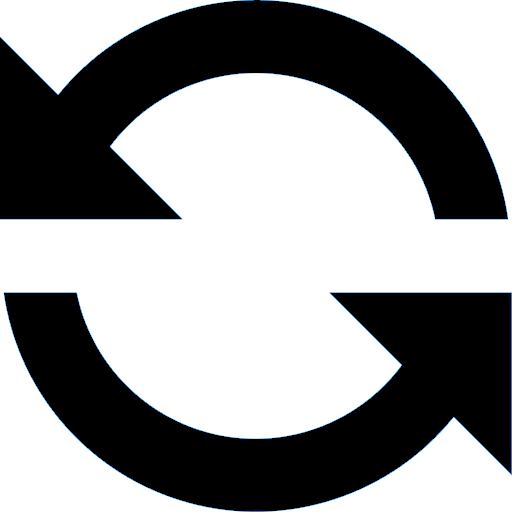
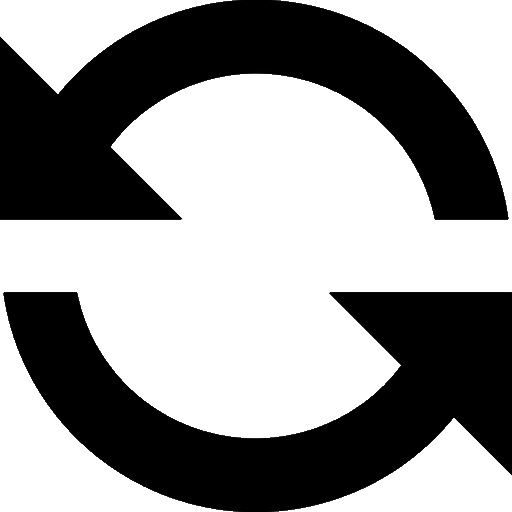
#521 Fix bugs
- Remove background from refresh button
- Updated docstring in DefenseRegistrationRepository
- Removed unused check in LabService
- Updated tests
- Moved '{' to new line
- renamed defendingTeachersHeaders and defendingTeachers

diff --git a/plugin/resources/assets/js/pages/assignment/components/RegistrationQueue.vue b/plugin/resources/assets/js/pages/assignment/components/RegistrationQueue.vue
@@ -18,8 +18,8 @@
                 {{ translate('labTeachersText') }}
               </v-card-title>
               <v-data-table
-                :headers="defendingTeachersHeaders"
-                :items="defendingTeachers"
+                :headers="labTeachersHeaders"
+                :items="labTeachers"
                 :hide-default-footer="true"
                 @update:items="dataUpdate"
               >
@@ -60,7 +60,7 @@ export default {
 
   data() {
     return {
-      defendingTeachersHeaders: [
+      labTeachersHeaders: [
         {text: this.translate("teacherText"), value: 'teacher_name'},
         {text: this.translate("charonText"), value: 'charon'},
         {text: this.translate("availabilityText"), value: 'availability'},
@@ -71,7 +71,7 @@ export default {
         {text: this.translate("estimatedStartTimeText"), value: 'approx_start_time', sortable: false},
         {text: this.translate("studentText"), value: 'student_name', sortable: false},
       ],
-      defendingTeachers: [],
+      labTeachers: [],
       studentsQueue: [],
       timer: '',
       labStarted: Date.parse(this.lab_start) <= Date.now(),
@@ -92,14 +92,14 @@ export default {
   created () {
     this.timer = setInterval(this.dataUpdate, 15000);
     this.studentsQueue = this.items.registrations;
-    this.defendingTeachers = this.items.teachers;
+    this.labTeachers = this.items.teachers;
   },
 
   methods: {
     dataUpdate(){
       Lab.getLabQueueStatus(this.$store.state.charon.id, this.defenseLabId, this.$store.state.student_id,  (items)=>{
         this.studentsQueue = items.registrations;
-        this.defendingTeachers = items.teachers;
+        this.labTeachers = items.teachers;
         this.labStarted = Date.parse(this.lab_start) <= Date.now();
         this.labEnded = Date.parse(this.lab_end) <= Date.now();
         if (this.labEnded) {

diff --git a/plugin/app/Repositories/DefenseRegistrationRepository.php b/plugin/app/Repositories/DefenseRegistrationRepository.php
@@ -307,7 +307,8 @@ class DefenseRegistrationRepository
     }
 
     /**
-     * Returns all lab registrations. If $waitingStatus is true, then only labs with progress 'waiting'.
+     * Returns all lab registrations. If given progresses, then returns registrations only
+     * where progress is in progresses list.
      *
      * @param int $labId
      * @param bool $waitingStatus
@@ -341,7 +342,8 @@ class DefenseRegistrationRepository
      * @param int $labId
      * @return mixed
      */
-    public function getTeacherAndDefendingCharonByLab(int $labId){
+    public function getTeacherAndDefendingCharonByLab(int $labId)
+    {
         return DB::table('charon_defenders')
             ->join('charon_defense_lab', 'charon_defense_lab.id', 'charon_defenders.defense_lab_id')
             ->join('charon', 'charon.id', 'charon_defenders.charon_id')

diff --git a/plugin/tests/Unit/Services/LabServiceTest.php b/plugin/tests/Unit/Services/LabServiceTest.php
@@ -338,11 +338,8 @@ class LabServiceTest extends TestCase
         $defence2 = new \stdClass();
         $defence2->teacher_id = 102;
         $defence2->charon = 'EX02';
-        $defence3 = new \stdClass();
-        $defence3->teacher_id = 101;
-        $defence3->charon = 'EX02';
 
-        $teachersDefences = array($defence1, $defence2, $defence3);
+        $teachersDefences = array($defence1, $defence2);
 
         $this->defenseRegistrationRepository->shouldReceive('getLabRegistrationsByLabId')
             ->once()

diff --git a/plugin/app/Services/LabService.php b/plugin/app/Services/LabService.php
@@ -137,7 +137,7 @@ class LabService
 
                 // Check if teacher is defending some charon or not
                 foreach ($teachersDefences as $teachersDefence) {
-                    if ($teacher->charon === '' && $teachersDefence->teacher_id === $teacher->id){
+                    if ($teachersDefence->teacher_id === $teacher->id){
                         $teacher->charon = $teachersDefence->charon;
                     }
                 }

diff --git a/plugin/app/Repositories/LabTeacherRepository.php b/plugin/app/Repositories/LabTeacherRepository.php
@@ -281,7 +281,8 @@ class LabTeacherRepository
      * @param int $labId
      * @return mixed
      */
-    public function getAllLabTeachersByLab(int $labId){
+    public function getAllLabTeachersByLab(int $labId)
+    {
         return DB::table('charon_lab_teacher')
             ->join('user', 'user.id', 'charon_lab_teacher.teacher_id')
             ->where('charon_lab_teacher.lab_id', $labId)
